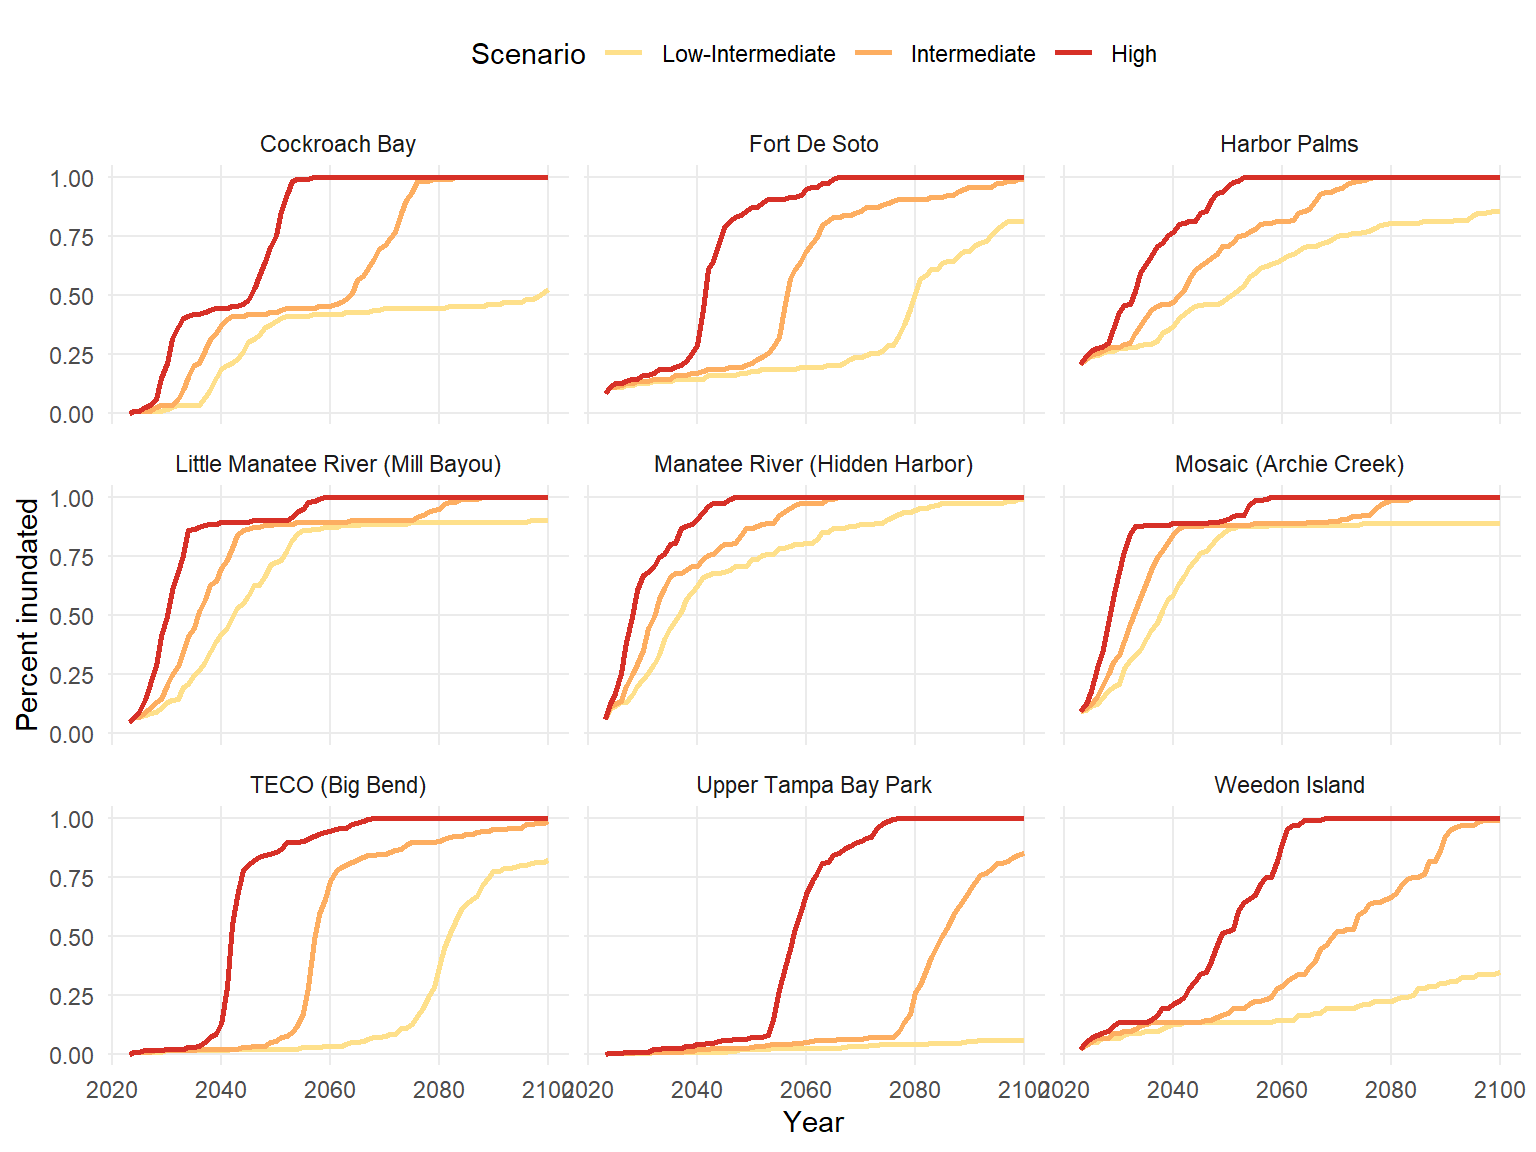
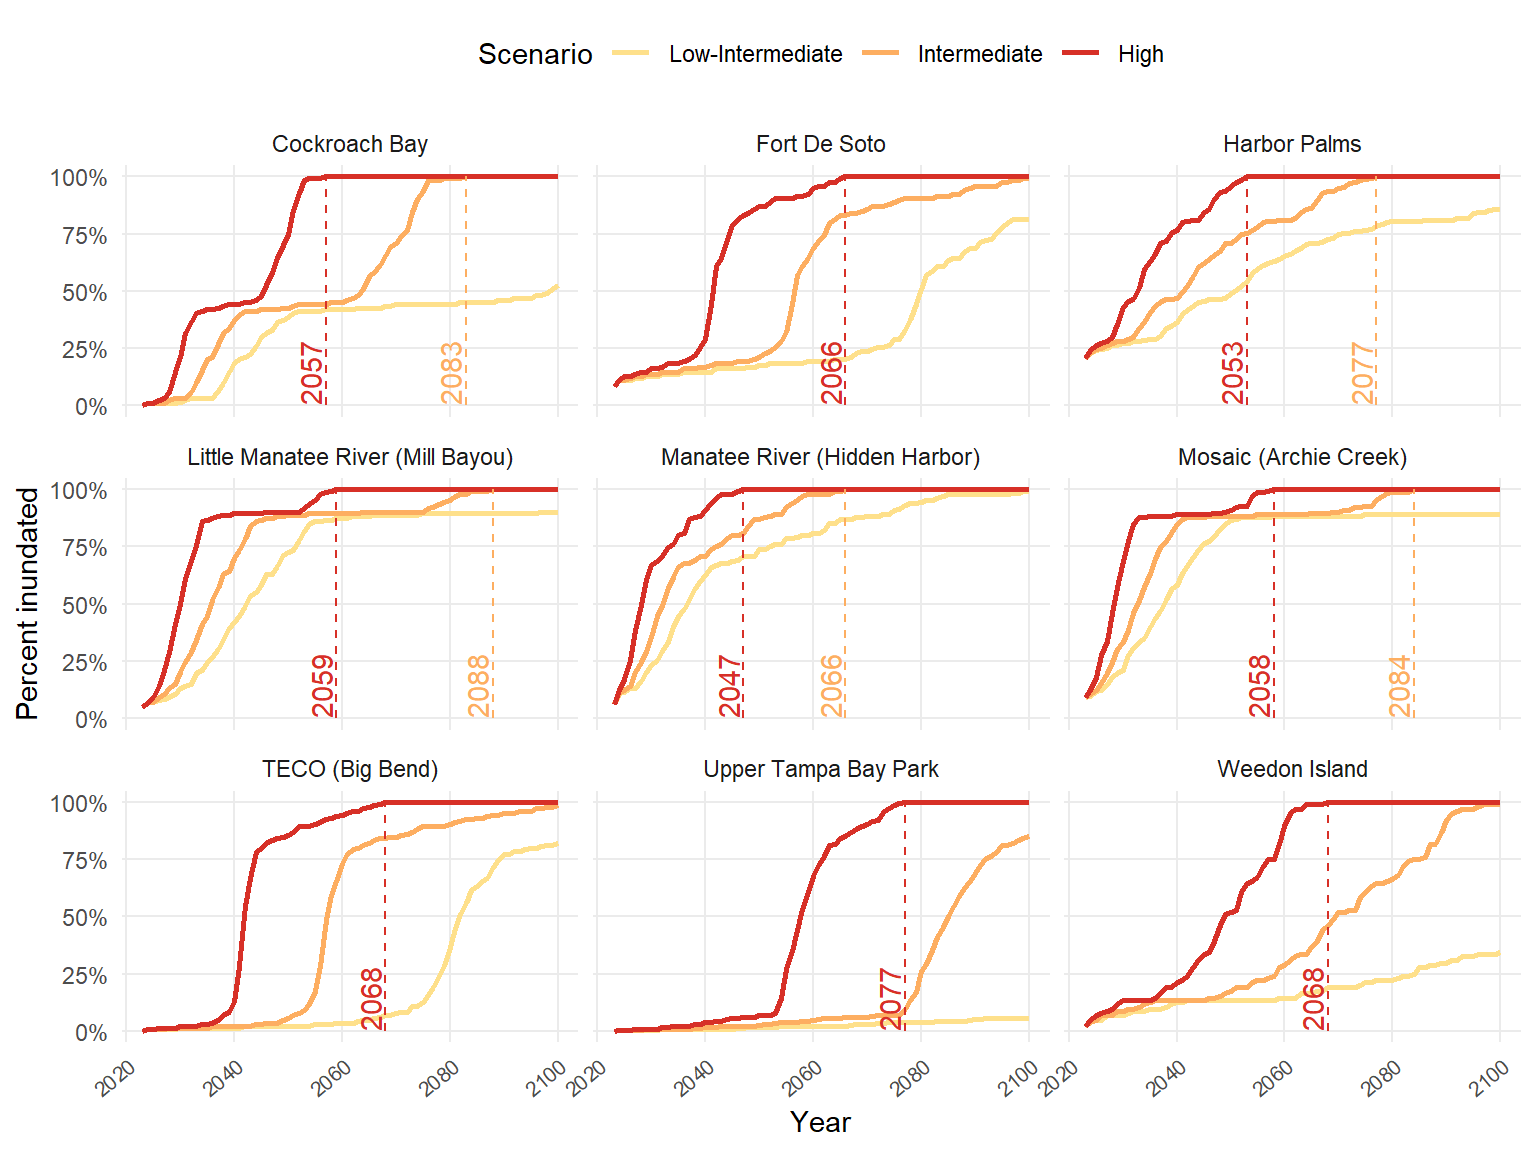
added inundation by zone

diff --git a/docs/inundation.html b/docs/inundation.html
@@ -65,12 +65,12 @@ ul.task-list li input[type="checkbox"] {
 </header>
 
 
-<p>This analysis is a potential inundation scenario for the CCHA transects based on sea level rise projections in the Tampa Bay region. Sea level is based on the St.&nbsp;Petersburg NOAA tide guage (8726520) and three scenarios of low-intermediate, intermediate, and high projection estimates consistent with the National Climate Assessment (as described in <a href="https://drive.google.com/file/d/1c_KTSJ4TgVX9IugnyDadr2Hc0gjAuQg2/view">TBEP technical publication #05-19</a>). Zero accretion and inland migration of habitats is assumed and estimates herein are conservative. The analysis present the percent of each CCHA transect that is inundated from 2023 to 2021, where the 2023 sea level is the recorded elevation at the start of each transect.</p>
+<p>This analysis is a potential inundation scenario for the CCHA transects based on sea level rise projections in the Tampa Bay region. Sea level is based on the St.&nbsp;Petersburg NOAA tide guage (8726520) and three scenarios of low-intermediate, intermediate, and high projection estimates consistent with the National Climate Assessment (as described in <a href="https://drive.google.com/file/d/1c_KTSJ4TgVX9IugnyDadr2Hc0gjAuQg2/view">TBEP technical publication #05-19</a>). <strong>Zero accretion and no inland migration of habitats is assumed and estimates herein are conservative.</strong> The analysis present the percent of each CCHA transect that is inundated from 2023 to 2021, where the 2023 sea level is the recorded elevation at the start of each transect.</p>
 <div class="cell">
 <div class="cell-output-display">
 <div class="quarto-figure quarto-figure-center">
 <figure class="figure">
-<p><a href="inundation_files/figure-html/unnamed-chunk-2-1.png" class="lightbox" data-glightbox="description: .lightbox-desc-1" data-gallery="quarto-lightbox-gallery-1" title="Relative sea level change from 2023 for three scenarios of sea level rise in the Tampa Bay region."><img src="inundation_files/figure-html/unnamed-chunk-2-1.png" class="img-fluid figure-img" width="672" alt="Relative sea level change from 2023 for three scenarios of sea level rise in the Tampa Bay region."></a></p>
+<p><a href="inundation_files/figure-html/unnamed-chunk-2-1.png" class="lightbox" data-gallery="quarto-lightbox-gallery-1" data-glightbox="description: .lightbox-desc-1" title="Relative sea level change from 2023 for three scenarios of sea level rise in the Tampa Bay region."><img src="inundation_files/figure-html/unnamed-chunk-2-1.png" class="img-fluid figure-img" width="672" alt="Relative sea level change from 2023 for three scenarios of sea level rise in the Tampa Bay region."></a></p>
 <figcaption>Relative sea level change from 2023 for three scenarios of sea level rise in the Tampa Bay region.</figcaption>
 </figure>
 </div>
@@ -80,24 +80,37 @@ ul.task-list li input[type="checkbox"] {
 <div class="cell-output-display">
 <div class="quarto-figure quarto-figure-center">
 <figure class="figure">
-<p><a href="inundation_files/figure-html/unnamed-chunk-4-1.png" class="lightbox" data-glightbox="description: .lightbox-desc-2" data-gallery="quarto-lightbox-gallery-2" title="Projected relative sea level rise in 2100 for three scenarios by CCHA transect"><img src="inundation_files/figure-html/unnamed-chunk-4-1.png" class="img-fluid figure-img" width="768" alt="Projected relative sea level rise in 2100 for three scenarios by CCHA transect"></a></p>
-<figcaption>Projected relative sea level rise in 2100 for three scenarios by CCHA transect</figcaption>
+<p><a href="inundation_files/figure-html/unnamed-chunk-4-1.png" class="lightbox" data-gallery="quarto-lightbox-gallery-2" data-glightbox="description: .lightbox-desc-2" title="Projected relative sea level rise in 2100 for three scenarios by CCHA transect. Assumes no accretion nor inland migration."><img src="inundation_files/figure-html/unnamed-chunk-4-1.png" class="img-fluid figure-img" width="768" alt="Projected relative sea level rise in 2100 for three scenarios by CCHA transect. Assumes no accretion nor inland migration."></a></p>
+<figcaption>Projected relative sea level rise in 2100 for three scenarios by CCHA transect. Assumes no accretion nor inland migration.</figcaption>
 </figure>
 </div>
 </div>
 </div>
 <div class="cell">
 <div class="cell-output-display">
-<div>
+<div class="quarto-figure quarto-figure-center">
 <figure class="figure">
-<p><a href="inundation_files/figure-html/unnamed-chunk-5-1.png" class="lightbox" data-gallery="quarto-lightbox-gallery-3"><img src="inundation_files/figure-html/unnamed-chunk-5-1.png" class="img-fluid figure-img" width="768"></a></p>
+<p><a href="inundation_files/figure-html/unnamed-chunk-5-1.png" class="lightbox" data-gallery="quarto-lightbox-gallery-3" data-glightbox="description: .lightbox-desc-3" title="Percent of CCHA transect inundated from 2023 to 2100 for three scenarios. Estimated year of inundation for each scenario is shown on the bottom of each facet. Assumes no accretion nor inland migration."><img src="inundation_files/figure-html/unnamed-chunk-5-1.png" class="img-fluid figure-img" width="768" alt="Percent of CCHA transect inundated from 2023 to 2100 for three scenarios. Estimated year of inundation for each scenario is shown on the bottom of each facet. Assumes no accretion nor inland migration."></a></p>
+<figcaption>Percent of CCHA transect inundated from 2023 to 2100 for three scenarios. Estimated year of inundation for each scenario is shown on the bottom of each facet. Assumes no accretion nor inland migration.</figcaption>
+</figure>
+</div>
+</div>
+</div>
+<div class="cell">
+<div class="cell-output-display">
+<div class="quarto-figure quarto-figure-center">
+<figure class="figure">
+<p><a href="inundation_files/figure-html/unnamed-chunk-6-1.png" class="lightbox" data-gallery="quarto-lightbox-gallery-4" data-glightbox="description: .lightbox-desc-4" title="Percent of CCHA zones inundated from 2023 to 2100 for three scenarios. Estimated year of inundation for each scenario is shown on the bottom of each facet. Assumes no accretion nor inland migration."><img src="inundation_files/figure-html/unnamed-chunk-6-1.png" class="img-fluid figure-img" width="768" alt="Percent of CCHA zones inundated from 2023 to 2100 for three scenarios. Estimated year of inundation for each scenario is shown on the bottom of each facet. Assumes no accretion nor inland migration."></a></p>
+<figcaption>Percent of CCHA zones inundated from 2023 to 2100 for three scenarios. Estimated year of inundation for each scenario is shown on the bottom of each facet. Assumes no accretion nor inland migration.</figcaption>
 </figure>
 </div>
 </div>
 </div>
 <div class="hidden" aria-hidden="true">
 <span class="glightbox-desc lightbox-desc-1">Relative sea level change from 2023 for three scenarios of sea level rise in the Tampa Bay region.</span>
-<span class="glightbox-desc lightbox-desc-2">Projected relative sea level rise in 2100 for three scenarios by CCHA transect</span>
+<span class="glightbox-desc lightbox-desc-2">Projected relative sea level rise in 2100 for three scenarios by CCHA transect. Assumes no accretion nor inland migration.</span>
+<span class="glightbox-desc lightbox-desc-3">Percent of CCHA transect inundated from 2023 to 2100 for three scenarios. Estimated year of inundation for each scenario is shown on the bottom of each facet. Assumes no accretion nor inland migration.</span>
+<span class="glightbox-desc lightbox-desc-4">Percent of CCHA zones inundated from 2023 to 2100 for three scenarios. Estimated year of inundation for each scenario is shown on the bottom of each facet. Assumes no accretion nor inland migration.</span>
 </div>
 
 </main>
@@ -490,7 +503,7 @@ window.document.addEventListener("DOMContentLoaded", function (event) {
 });
 </script>
 </div> <!-- /content -->
-<script>var lightboxQuarto = GLightbox({"descPosition":"bottom","closeEffect":"zoom","selector":".lightbox","loop":false,"openEffect":"zoom"});
+<script>var lightboxQuarto = GLightbox({"selector":".lightbox","descPosition":"bottom","openEffect":"zoom","closeEffect":"zoom","loop":false});
 window.onload = () => {
   lightboxQuarto.on('slide_before_load', (data) => {
     const { slideIndex, slideNode, slideConfig, player, trigger } = data;
